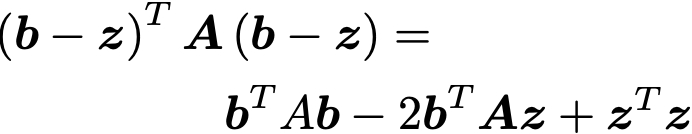
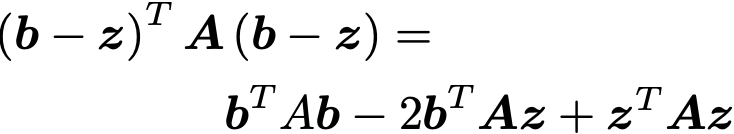
Update equations.

diff --git a/equations/ridge-regression-eqn2.tex b/equations/ridge-regression-eqn2.tex
@@ -6,8 +6,8 @@
 \begin{document}
 \begin{align*}\begin{split}
 \left\lVert \boldsymbol y - \boldsymbol{X} \boldsymbol{b} \right \rVert^2 &+ \left\lVert \boldsymbol{\Gamma} \boldsymbol{b} \right \rVert^2 \\
-&= 
+\phantom{x} &= 
 \left( \boldsymbol b - \boldsymbol z \right)^T \boldsymbol A \left( \boldsymbol b - \boldsymbol z \right) -
-\boldsymbol z^T \boldsymbol z + \boldsymbol y^T \boldsymbol y \\
+\boldsymbol z^T \boldsymbol A \boldsymbol z + \boldsymbol y^T \boldsymbol y
 \end{split}\end{align*}
 \end{document}

diff --git a/equations/z-eqn1.tex b/equations/z-eqn1.tex
@@ -6,6 +6,6 @@
 \begin{document}
 \begin{align*}\begin{split}
 \left( \boldsymbol b - \boldsymbol z \right)^T \boldsymbol A & \left( \boldsymbol b - \boldsymbol z \right) = \\
-& \boldsymbol b^T A \boldsymbol b -2 \boldsymbol b^T \boldsymbol A \boldsymbol z + \boldsymbol z^T \boldsymbol z \\
+& \boldsymbol b^T A \boldsymbol b -2 \boldsymbol b^T \boldsymbol A \boldsymbol z + \boldsymbol z^T \boldsymbol A \boldsymbol z \\
 \end{split}\end{align*}
 \end{document}
